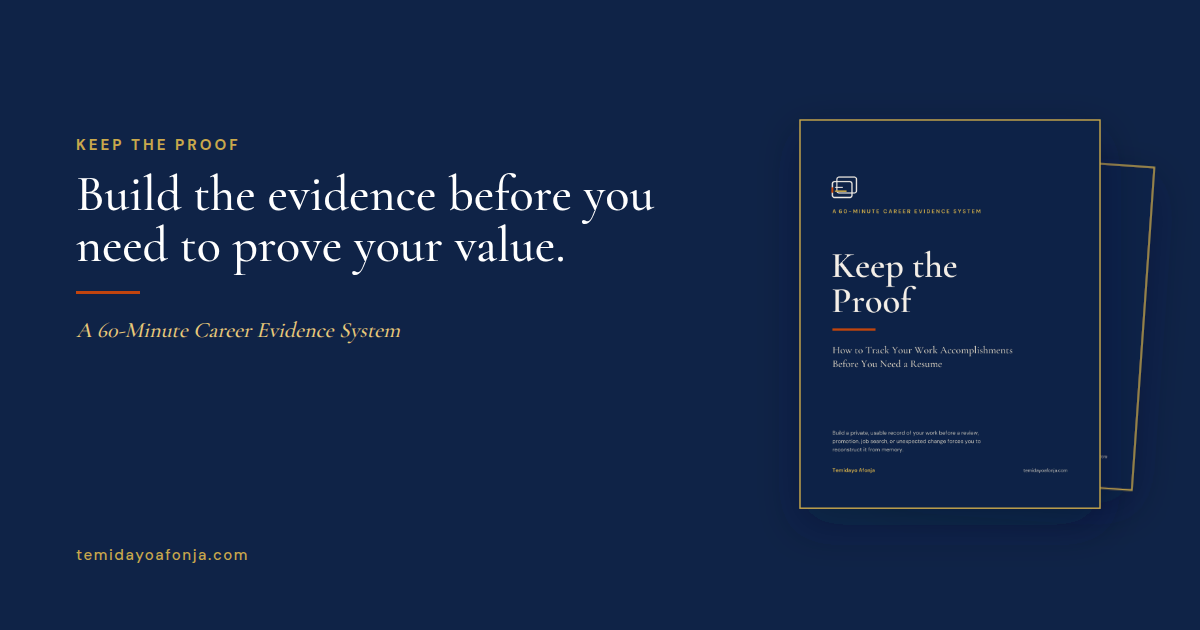
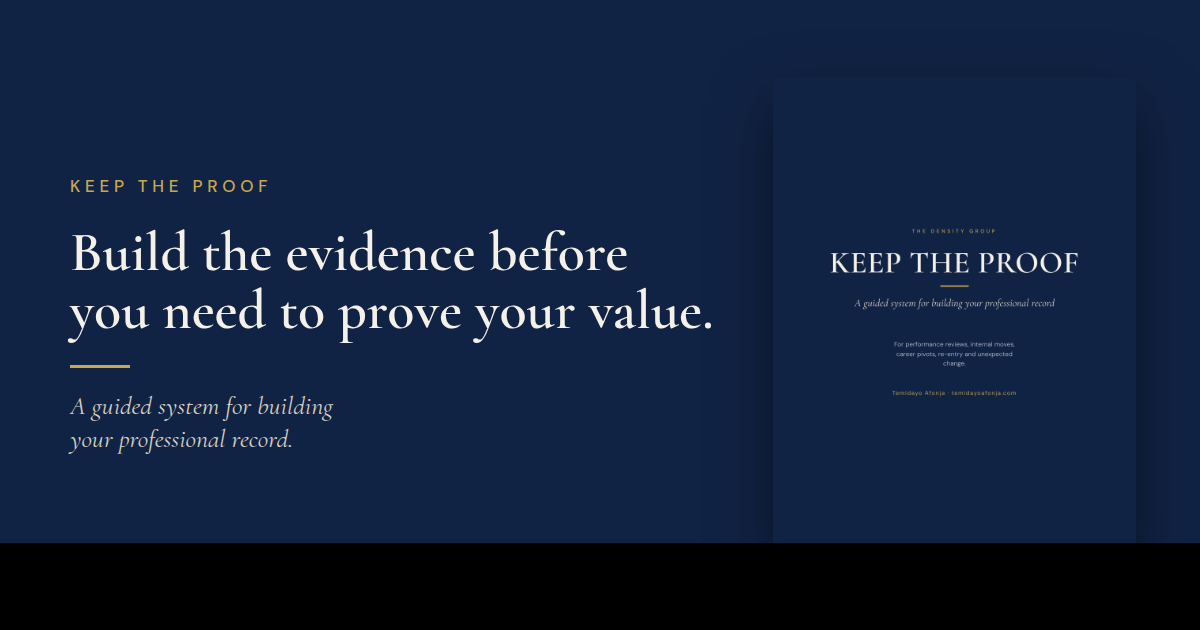
KTP V2 website: update /keep-the-proof to V2 and fix stale Starter refs
keep-the-proof.html:
- Retitle/meta/OG/Twitter to 'A guided system for building your
  professional record'; regenerate og-keep-the-proof.png with V2 copy and
  the V2 cover.
- Hero: new kicker + lede; single V2 cover image (retire the ledger cover
  card); update trust line to the four V2 components.
- 'What you receive' rewritten to the V2 bundle: Guided Handbook (47pp),
  Your Professional Record, Printable & Fillable Tools, plus Start Here.
- First-hour outcomes, How-it-works step 3, format block, FAQ, and final
  CTA updated off the retired 60-Minute / Career Evidence Ledger language.
- Before/after example uses the honest, number-free Proof Line consistent
  with the product's 'never invent a number' rule.
- Preserve internal routing: on-page CTAs still go to the Gumroad checkout;
  no other page's internal links changed to direct Gumroad links.

career-evidence-starter.html:
- Update only stale paid-product references (drop '60-minute system',
  'Career Evidence System', 'reusable Career Evidence Ledger'); the Starter
  itself is unchanged and still finishes one real accomplishment.

Preserves the free/paid boundary and the not-a-resume/interview boundary.

Claude-Session: https://claude.ai/code/session_01ToTykVvAYrMhrswtJBy37S

diff --git a/keep-the-proof.html b/keep-the-proof.html
@@ -3,8 +3,8 @@
 <head>
 <meta charset="UTF-8">
 <meta name="viewport" content="width=device-width, initial-scale=1.0">
-<title>Keep the Proof | 60-Minute Career Evidence System</title>
-<meta name="description" content="Build the evidence before you need to prove your value. A 60-minute career evidence system: capture what you contributed, what changed, and what your work proves you can do.">
+<title>Keep the Proof | A guided system for building your professional record</title>
+<meta name="description" content="Build an honest, portable record of your work before you need it. Keep the Proof helps you capture what you contributed, clarify what was actually yours, and carry it into reviews, internal moves, pivots, re-entry, and unexpected change.">
 <link rel="canonical" href="https://temidayoafonja.com/keep-the-proof">
 
 <!-- Published: this page is indexable (no robots tag, matching fieldkit.html).
@@ -15,13 +15,13 @@
 <meta property="og:type" content="product">
 <meta property="og:site_name" content="Temidayo Afonja">
 <meta property="og:url" content="https://temidayoafonja.com/keep-the-proof">
-<meta property="og:title" content="Keep the Proof | 60-Minute Career Evidence System">
+<meta property="og:title" content="Keep the Proof | A guided system for building your professional record">
 <meta property="og:description" content="Build the evidence before you need to prove your value.">
 <meta property="og:image" content="https://temidayoafonja.com/og-keep-the-proof.png">
 <meta property="og:image:width" content="1200">
 <meta property="og:image:height" content="630">
 <meta name="twitter:card" content="summary_large_image">
-<meta name="twitter:title" content="Keep the Proof | 60-Minute Career Evidence System">
+<meta name="twitter:title" content="Keep the Proof | A guided system for building your professional record">
 <meta name="twitter:description" content="Build the evidence before you need to prove your value.">
 <meta name="twitter:image" content="https://temidayoafonja.com/og-keep-the-proof.png">
 
@@ -113,8 +113,7 @@
 .doc-card img { width: 100%; height: auto; display: block; }
 .ktp-covers { position: relative; width: 100%; max-width: 340px; margin: 0 auto; }
 .ktp-covers .doc-card { box-shadow: 0 26px 64px rgba(0,0,0,0.45); }
-.ktp-cover-main { position: relative; width: 82%; z-index: 2; }
-.ktp-cover-ledger { position: absolute; width: 70%; right: -2%; top: 30px; z-index: 1; transform: rotate(3deg); }
+.ktp-cover-main { position: relative; width: 100%; z-index: 2; }
 
 /* OUTCOME / reads list (navy) */
 .ktp-list { list-style: none; margin: 30px 0 0; padding: 0; display: grid; gap: 2px; max-width: 820px; }
@@ -131,8 +130,8 @@
 .ktp-light .ktp-list .mk, .ktp-light--paper .ktp-list .mk { background: var(--rust-ink); }
 
 /* INCLUDED (ivory) */
-.ktp-included { display: grid; grid-template-columns: 1fr 1fr; gap: 20px; margin-top: 30px; }
-.ktp-doc { background: #FFFDF8; border: 1px solid var(--line-warm); border-radius: 10px; padding: 30px; }
+.ktp-included { display: grid; grid-template-columns: 1fr 1fr 1fr; gap: 20px; margin-top: 30px; }
+.ktp-doc { background: #FFFDF8; border: 1px solid var(--line-warm); border-radius: 10px; padding: 26px; }
 .ktp-doc-meta { font-size: 12px; font-weight: 700; letter-spacing: 0.14em; text-transform: uppercase;
   color: var(--gold-ink); margin-bottom: 12px; }
 .ktp-doc p { font-size: 15px; line-height: 1.68; }
@@ -277,21 +276,18 @@
       <div>
         <span class="ktp-eyebrow">Keep the Proof</span>
         <h1 class="ktp-h1">Build the evidence before you need to prove your value.</h1>
-        <p class="ktp-kicker">A 60-Minute Career Evidence System</p>
-        <p class="ktp-lede ktp-hero-lede">In 60 minutes, assemble proof you can carry into your next move. Document what you contributed, what changed, and what your work proves you can do.</p>
+        <p class="ktp-kicker">A guided system for building your professional record</p>
+        <p class="ktp-lede ktp-hero-lede">Build an honest, portable record of your work &mdash; what you contributed, what changed, and the judgment inside it &mdash; before a review, a move, or a sudden change makes you reach for details that have gone soft.</p>
         <div class="ktp-cta-row">
           <a class="btn-primary" data-ktp-cta="hero" href="https://temidayoafonja.gumroad.com/l/keep-the-proof" target="_blank" rel="noopener">Get Keep the Proof - $49</a>
         </div>
-        <p class="ktp-trust">Includes the 41-page guided system, reusable Career Evidence Ledger, and Start Here guide.</p>
+        <p class="ktp-trust">Includes the 47-page guided handbook, your Professional Record, printable and fillable tools, and a Start Here guide.</p>
         <p class="ktp-price">$49 &middot; Instant digital access</p>
       </div>
       <div>
         <div class="ktp-covers">
-          <div class="doc-card ktp-cover-ledger">
-            <img src="/keep-the-proof-ledger-cover.png" width="900" height="1165" alt="The Career Evidence Ledger cover, the reusable companion to the handbook.">
-          </div>
           <div class="doc-card ktp-cover-main">
-            <img src="/keep-the-proof-cover.png" width="900" height="1165" alt="Keep the Proof handbook cover: a 60-minute career evidence system.">
+            <img src="/keep-the-proof-v2-cover.png" width="1836" height="2376" alt="Keep the Proof: a guided system for building your professional record.">
           </div>
         </div>
       </div>
@@ -348,12 +344,12 @@
       <h2 class="ktp-h2">What you will have after the first hour.</h2>
       <hr class="rust-rule">
       <ul class="ktp-list">
-        <li><span class="mk mk-gold"></span><span>At least one completed Career Evidence Entry</span></li>
+        <li><span class="mk mk-gold"></span><span>At least one completed entry in your Professional Record</span></li>
         <li><span class="mk mk-gold"></span><span>A clearer distinction between what the team did and what you contributed</span></li>
-        <li><span class="mk mk-gold"></span><span>Evidence connected to outcomes, changes, and problems prevented</span></li>
+        <li><span class="mk mk-gold"></span><span>Your work connected to outcomes, changes, and problems prevented</span></li>
         <li><span class="mk mk-gold"></span><span>A portable explanation of work that may currently exist only in internal language</span></li>
-        <li><span class="mk mk-gold"></span><span>A repeatable monthly and quarterly evidence habit</span></li>
-        <li><span class="mk mk-gold"></span><span>A private place to keep your proof before you urgently need it</span></li>
+        <li><span class="mk mk-gold"></span><span>A repeatable habit for keeping the record current, with optional monthly and quarterly sweeps</span></li>
+        <li><span class="mk mk-gold"></span><span>A private place to keep the record before you urgently need it</span></li>
       </ul>
     </div>
   </section>
@@ -362,18 +358,23 @@
   <section class="ktp-sec ktp-dark" id="included">
     <div class="ktp-wrap">
       <span class="ktp-eyebrow">What you receive</span>
-      <h2 class="ktp-h2">One system, in two working parts.</h2>
-      <p class="ktp-sub">The guided system is the setup experience. The ledger is what keeps the practice going. They are designed to be used together.</p>
+      <h2 class="ktp-h2">One system you learn, then keep using.</h2>
+      <p class="ktp-sub">A guided handbook teaches the method; your Professional Record is where the work lives for years. Printable and fillable tools are there if you prefer paper or a form.</p>
       <div class="ktp-included">
         <article class="ktp-doc">
-          <div class="ktp-doc-meta">The guided system &middot; 41 pages</div>
-          <h3 class="ktp-h3">Keep the Proof: A 60-Minute Career Evidence System</h3>
-          <p>A fillable handbook that walks you through identifying, documenting, verifying, and translating meaningful work. It teaches you how to tell contribution from participation, and how to put internal work into language that travels.</p>
+          <div class="ktp-doc-meta">The guided handbook &middot; 47 pages</div>
+          <h3 class="ktp-h3">Keep the Proof: Guided Handbook</h3>
+          <p>The teaching. It walks you through capturing what happened, clarifying what was actually yours, and carrying it into language an outsider can follow &mdash; with a completed example beside every tool, and permission and safe use running throughout.</p>
         </article>
         <article class="ktp-doc">
-          <div class="ktp-doc-meta">The reusable ledger &middot; 12 pages</div>
-          <h3 class="ktp-h3">Career Evidence Ledger</h3>
-          <p>A fillable tool for continuing the practice: quick captures, full entries, translation exercises, monthly reviews, quarterly reviews, and an evidence index you can search later.</p>
+          <div class="ktp-doc-meta">Your long-term home</div>
+          <h3 class="ktp-h3">Your Professional Record</h3>
+          <p>An editable, copyable, searchable working document you own and control &mdash; no app or subscription required. It holds your captures, full entries, corroboration notes, Proof Lines, and a running index, so any entry is a search away.</p>
+        </article>
+        <article class="ktp-doc">
+          <div class="ktp-doc-meta">Same fields, on paper or a form</div>
+          <h3 class="ktp-h3">Printable &amp; Fillable Tools</h3>
+          <p>The same fields as your Professional Record, as printable and fillable pages, for anyone who would rather write by hand or type into a form. Use whichever you will keep up &mdash; you do not need to complete both.</p>
         </article>
       </div>
       <div class="ktp-third">
@@ -404,11 +405,11 @@
         </div>
         <div class="ktp-step">
           <div class="ktp-step-n">3</div>
-          <h3 class="ktp-h3">Keep the system current</h3>
-          <p>Use the Career Evidence Ledger monthly and quarterly so you are not reconstructing your career from memory later.</p>
+          <h3 class="ktp-h3">Keep the record current</h3>
+          <p>Add to your Professional Record as work happens, with optional monthly and quarterly sweeps, so you are not reconstructing your career from memory later.</p>
         </div>
       </div>
-      <p class="ktp-note">By the end of the first hour, you should have at least one completed Career Evidence Entry and a repeatable way to keep the proof of what your work has built.</p>
+      <p class="ktp-note">By the end of the first focused session, you should have at least one completed record entry and a repeatable way to keep the proof of what your work has built.</p>
     </div>
   </section>
 
@@ -425,7 +426,7 @@
         </div>
         <div class="ktp-ba-card ktp-ba-card--after">
           <div class="ktp-ba-label">After</div>
-          <p class="ktp-ba-quote">&ldquo;Led the redesign of a cross-functional onboarding experience, coordinated stakeholders across the business, and improved one measure of new-hire integration from 47 to 75.&rdquo;</p>
+          <p class="ktp-ba-quote">&ldquo;Redesigned new-hire onboarding for a growing operations team, cutting time to full productivity and reducing early attrition, with the model later adopted by two other departments.&rdquo;</p>
         </div>
       </div>
       <p class="ktp-note">The system moves you from a vague task description to a credible, evidence-supported account of what you contributed and what changed. Not every entry will carry a number. Where the evidence is qualitative, the system helps you say what changed and how you know.</p>
@@ -440,9 +441,9 @@
       <hr class="rust-rule">
       <div class="ktp-format">
         <div>Digital download</div>
-        <div>Fillable PDFs</div>
-        <div>Best used in Adobe Acrobat Reader</div>
-        <div>Files can be saved and reused</div>
+        <div>Editable Professional Record (Word, Google Docs, or Pages)</div>
+        <div>Printable &amp; fillable PDF tools</div>
+        <div>Files are yours to save and reuse</div>
         <div>Personal-use license</div>
         <div>Nothing is uploaded to this site</div>
       </div>
@@ -459,12 +460,12 @@
       <h2 class="ktp-h2">Before you buy.</h2>
       <div class="ktp-faq">
         <details>
-          <summary>Are the PDFs fillable?</summary>
-          <div class="ktp-faq-a"><p>Yes. Both main documents contain fillable fields and are best used in Adobe Acrobat Reader.</p></div>
+          <summary>What format are the materials in?</summary>
+          <div class="ktp-faq-a"><p>Your Professional Record is an editable document you can use in Word, Google Docs, or Pages (a plain-text copy is included too). The Printable &amp; Fillable Tools are fillable PDF pages, best filled in Adobe Acrobat Reader. The handbook and Start Here are PDFs to read.</p></div>
         </details>
         <details>
           <summary>Do I need to complete everything in one sitting?</summary>
-          <div class="ktp-faq-a"><p>No. The first 60 minutes help you establish the system and complete at least one meaningful entry. The ledger is designed for continued monthly and quarterly use.</p></div>
+          <div class="ktp-faq-a"><p>No. Your first focused session helps you set up the system and complete at least one meaningful entry. Your Professional Record is designed for continued use, with optional monthly and quarterly sweeps.</p></div>
         </details>
         <details>
           <summary>Is this a resume template?</summary>
@@ -480,7 +481,7 @@
         </details>
         <details>
           <summary>Is there a free way to try the method first?</summary>
-          <div class="ktp-faq-a"><p>Yes. <a href="/career-evidence-starter">Keep the Proof: The 10-Minute Career Evidence Starter</a> is a free six-page worksheet that takes one accomplishment through the method and produces one portable Proof Line. Keep the Proof is the complete system: the full 60-minute method, the reusable Career Evidence Ledger, and the routines that keep the whole record current.</p></div>
+          <div class="ktp-faq-a"><p>Yes. <a href="/career-evidence-starter">Keep the Proof: The 10-Minute Career Evidence Starter</a> is a free six-page worksheet that takes one accomplishment through the method and produces one portable Proof Line. Keep the Proof is the complete system: the full guided handbook, your Professional Record, printable and fillable tools, and the routines that keep the whole record current.</p></div>
         </details>
         <details>
           <summary>How is this different from the Capability Formation Field Kit?</summary>
@@ -499,11 +500,11 @@
     <div class="ktp-wrap">
       <span class="ktp-eyebrow">Start now</span>
       <h2 class="ktp-h2">Do not wait until you need the story to start looking for the evidence.</h2>
-      <p class="ktp-sub">Build your private Career Evidence System now, while the work is still close enough to document accurately.</p>
+      <p class="ktp-sub">Build your professional record now, while the work is still close enough to document accurately.</p>
       <div class="ktp-cta-row">
         <a class="btn-primary" data-ktp-cta="final" href="https://temidayoafonja.gumroad.com/l/keep-the-proof" target="_blank" rel="noopener">Get Keep the Proof - $49</a>
       </div>
-      <p class="ktp-trust">Includes the 41-page guided system, reusable Career Evidence Ledger, and Start Here guide.</p>
+      <p class="ktp-trust">Includes the 47-page guided handbook, your Professional Record, printable and fillable tools, and a Start Here guide.</p>
     </div>
   </section>
 

diff --git a/career-evidence-starter.html b/career-evidence-starter.html
@@ -407,12 +407,12 @@
           <li>Not a resume-writing service</li>
           <li>Not a job-search course</li>
           <li>It does not tell you whether to stay in or leave your job</li>
-          <li>It is not the full Keep the Proof system, and does not include the reusable Career Evidence Ledger</li>
+          <li>It is not the full Keep the Proof system, and does not include the guided handbook or your ongoing Professional Record</li>
         </ul>
       </div>
     </div>
     <div class="ces-ladder">
-      <p><strong>This Starter</strong> proves one thing. <strong>Keep the Proof</strong>, the paid 60-minute system, builds and maintains the whole record. <strong>The Capability Formation Field Kit</strong> reads what your current position is building and whether it travels.</p>
+      <p><strong>This Starter</strong> proves one thing. <strong>Keep the Proof</strong>, the paid system, builds and maintains the whole record. <strong>The Capability Formation Field Kit</strong> reads what your current position is building and whether it travels.</p>
     </div>
   </div>
 </section>
@@ -426,7 +426,7 @@
       <div>
         <h2 style="font-size:clamp(24px,3vw,32px);">Temidayo Afonja</h2>
         <p>Career Portability Advisor and founder of The Density Group, a Capability Formation advisory firm. Her work draws on nearly two decades of practice across Big 4 consulting, global life sciences and high-growth technology.</p>
-        <p>The Starter uses the same method as Keep the Proof, the paid Career Evidence System, applied to a single piece of work.</p>
+        <p>The Starter uses the same method as Keep the Proof, the paid system, applied to a single piece of work.</p>
       </div>
     </div>
   </div>
